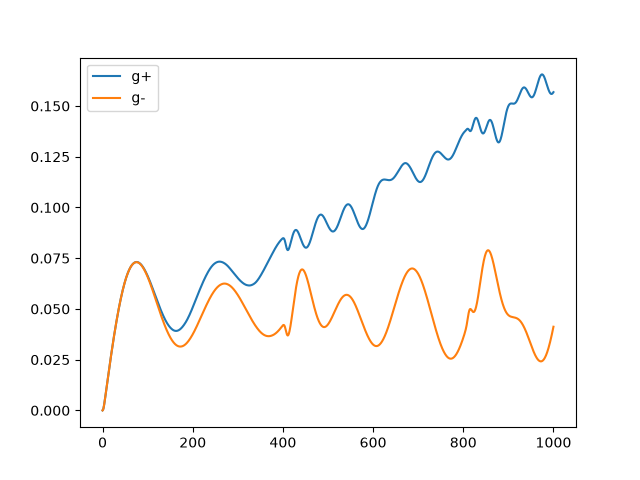
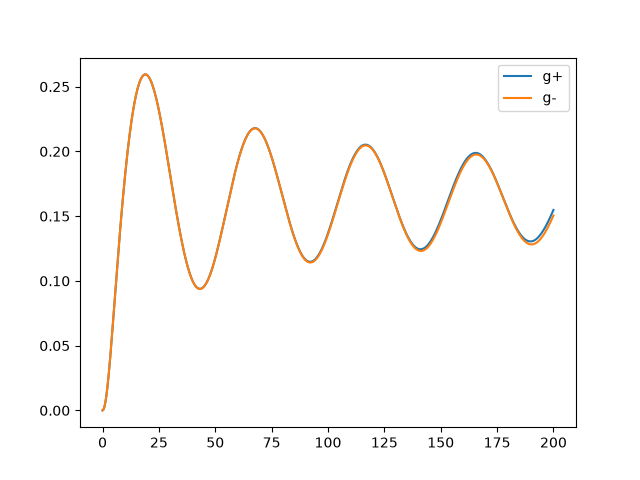
aadd

diff --git a/Rabi_g.py b/Rabi_g.py
@@ -84,30 +84,30 @@ def Rabi_osc_group(v0, TK, Dw, B0, t1, t_steps, N):
     print(f"WGcounted = {np.sqrt((W1**2/D - W2**2/D - (-keff*v0 + Dw))**2 + 4*W1**2*W2**2/D**2)*1e-3} kHz (no g acceleration)")
 
     # comparison 
-    # np.save("t_eval.npy", t_eval)
-    # np.save("Pg-.npy", P)
+    # np.save("1t_eval.npy", t_eval)
+    # np.save("1Pg+.npy", P)
 
     # fit
-    p0 = [np.pi/t_eval[np.argmax(P)],(np.max(P) - np.min(P))/2, (np.max(P) + np.min(P))/2, 2*t_eval[np.argmax(P)]]
-    popt, pcov = curve_fit(Rabifit, t_eval, P, p0=p0, maxfev=10000)
-    w, A, B, tc = popt
-    plt.plot(t_eval*1e6, Rabifit(t_eval, w, A, B, tc), label="fit $\Omega=const$")
-    print(f"Weffconst={w*1e-3} kHz")
-    print(f"typconst = {np.pi/w}")
+    # p0 = [np.pi/t_eval[np.argmax(P)],(np.max(P) - np.min(P))/2, (np.max(P) + np.min(P))/2, 2*t_eval[np.argmax(P)]]
+    # popt, pcov = curve_fit(Rabifit, t_eval, P, p0=p0, maxfev=10000)
+    # w, A, B, tc = popt
+    # plt.plot(t_eval*1e6, Rabifit(t_eval, w, A, B, tc), label="fit $\Omega=const$")
+    # print(f"Weffconst={w*1e-3} kHz")
+    # print(f"typconst = {np.pi/w}")
 
     # fit_t
-    tau_peak2 = t_eval[np.argmax(P)]**2*1e12
-    p0 = [w, A, B, tc, w/tau_peak2]
-    popt, pcov = curve_fit(Rabifit_t, t_eval, P, p0=p0, maxfev=10000)
-    w0, A, B, tc, a = popt
+    # tau_peak2 = t_eval[np.argmax(P)]**2*1e12
+    # p0 = [w, A, B, tc, w/tau_peak2]
+    # popt, pcov = curve_fit(Rabifit_t, t_eval, P, p0=p0, maxfev=10000)
+    # w0, A, B, tc, a = popt
 
-    plt.plot(t_eval*1e6, Rabifit_t(t_eval, w0, A, B, tc, a), label="fit $\Omega(t)$")
+    # plt.plot(t_eval*1e6, Rabifit_t(t_eval, w0, A, B, tc, a), label="fit $\Omega(t)$")
 
 
 
-    plt.figure()
+    # plt.figure()
 
-    plt.plot(t_eval*1e6, (w0+a*t_eval)*1e-3)
+    # plt.plot(t_eval*1e6, (w0+a*t_eval)*1e-3)
 
 
     return 1

diff --git a/comparison.py b/comparison.py
@@ -1,9 +1,9 @@
 import numpy as np 
 import matplotlib.pyplot as plt 
 
-t_eval = np.load("t_eval.npy")
-Pgp = np.load("Pg+.npy")
-Pgm = np.load("Pg-.npy")
+t_eval = np.load("1t_eval.npy")
+Pgp = np.load("1Pg+.npy")
+Pgm = np.load("1Pg-.npy")
 
 plt.plot(t_eval*1e6, Pgp, label="g+")
 plt.plot(t_eval*1e6, Pgm, label="g-")
